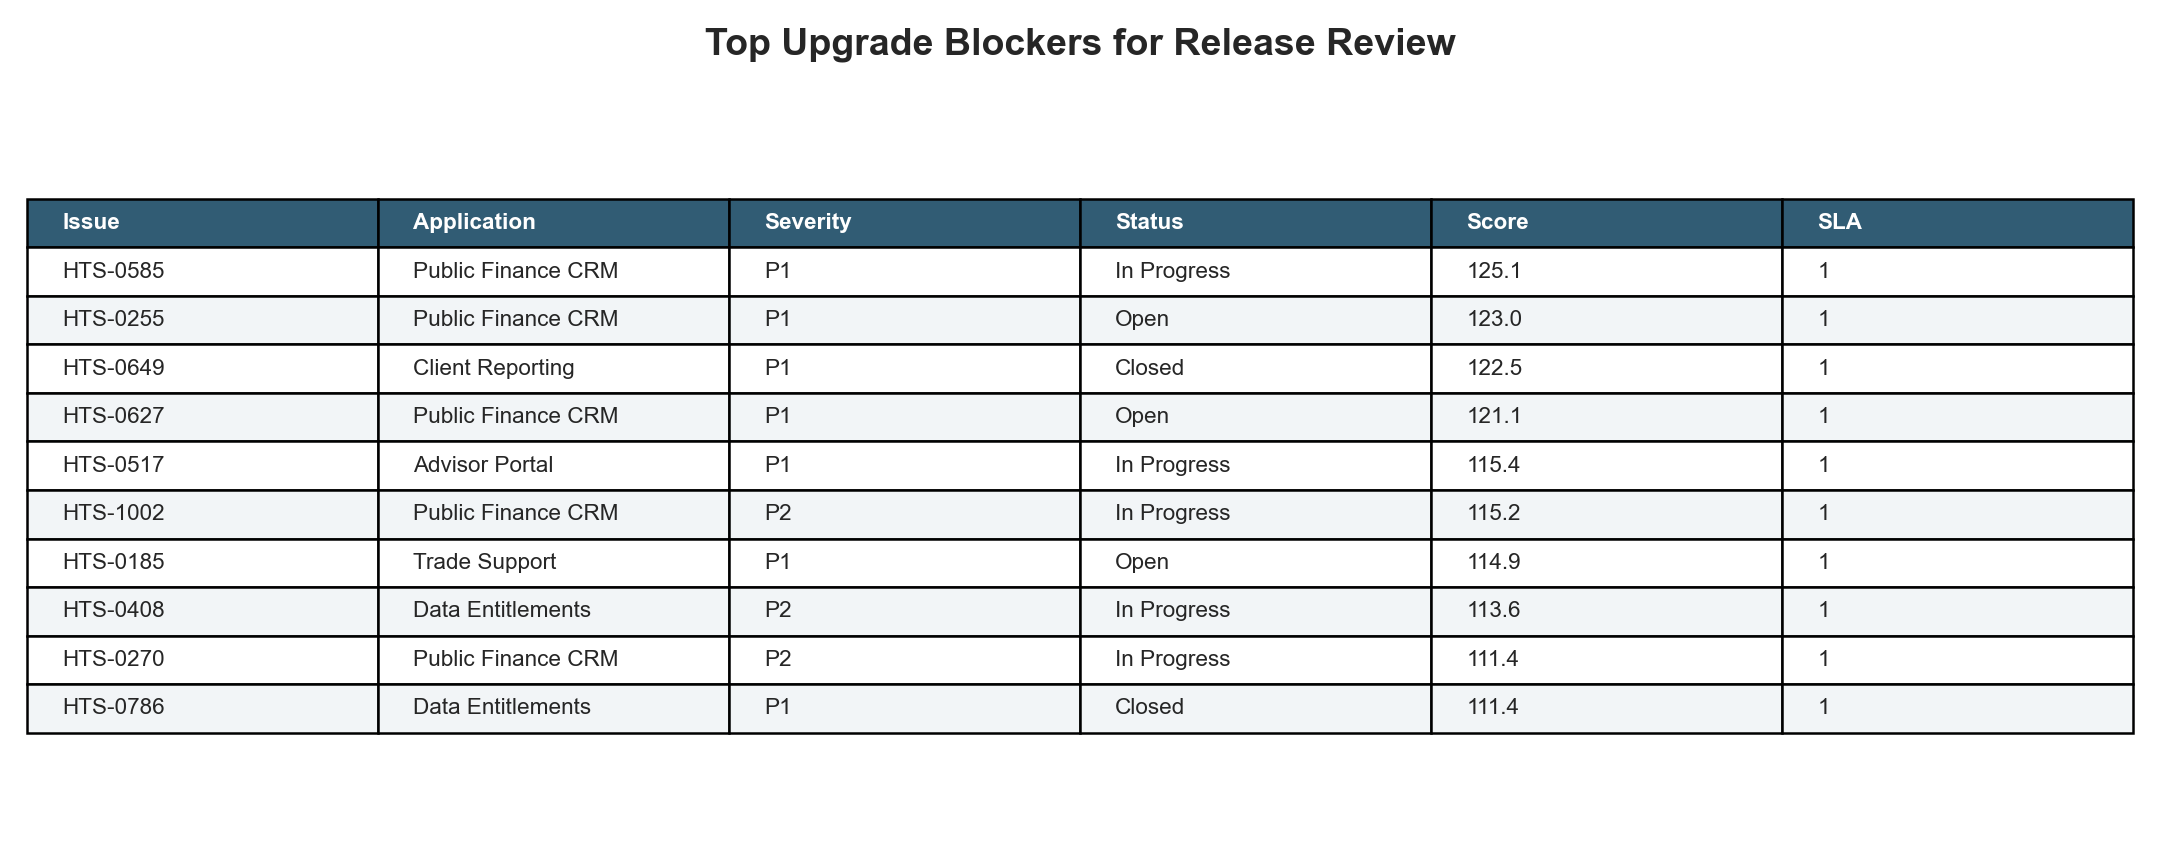
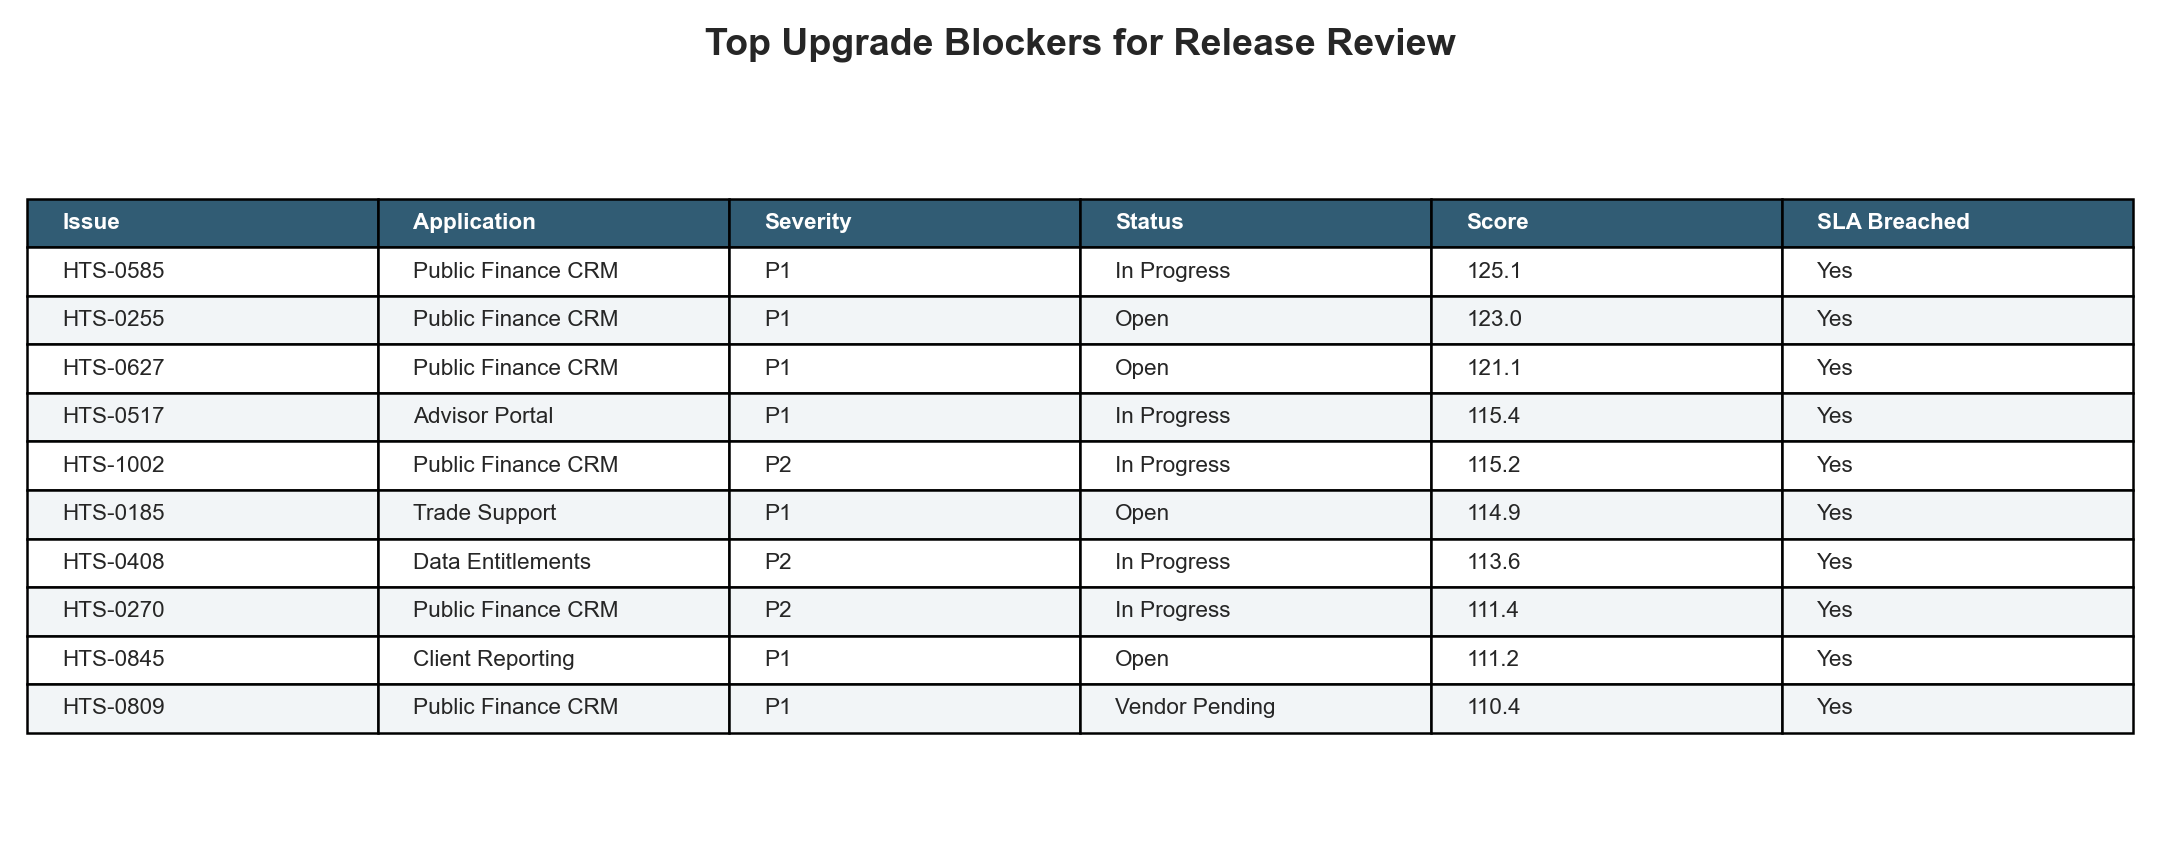
Tighten product support triage workbench

diff --git a/scripts/generate_data.py b/scripts/generate_data.py
@@ -31,12 +31,13 @@ USER_GROUPS = [
     "Sales Support",
 ]
 SEVERITY_WEIGHT = {"P1": 40, "P2": 28, "P3": 14, "P4": 6}
+ACTIVE_STATUSES = {"Open", "In Progress", "Vendor Pending", "Testing"}
 
 
 def write_csv(path: Path, rows: list[dict]) -> None:
     path.parent.mkdir(parents=True, exist_ok=True)
     with path.open("w", newline="") as handle:
-        writer = csv.DictWriter(handle, fieldnames=list(rows[0].keys()))
+        writer = csv.DictWriter(handle, fieldnames=list(rows[0].keys()), lineterminator="\n")
         writer.writeheader()
         writer.writerows(rows)
 
@@ -140,6 +141,7 @@ def generate_vendors() -> list[dict]:
 
 
 def score_issue(row: dict) -> float:
+    """Illustrative review score for prioritizing analyst attention."""
     sla_ratio = float(row["hours_open"]) / float(row["sla_hours"])
     score = SEVERITY_WEIGHT[row["severity"]]
     score += min(35, sla_ratio * 12)
@@ -159,7 +161,15 @@ def write_outputs(issues: list[dict], tests: list[dict]) -> None:
         ranked.append(scored)
     ranked.sort(key=lambda row: row["triage_score"], reverse=True)
     write_csv(OUT / "ranked_issue_queue.csv", ranked)
-    write_csv(OUT / "top_25_upgrade_blockers.csv", ranked[:25])
+
+    active_blockers = []
+    for row in ranked:
+        if row["status"] not in ACTIVE_STATUSES:
+            continue
+        blocker = dict(row)
+        blocker["sla_breach_flag"] = blocker.pop("sla_breached")
+        active_blockers.append(blocker)
+    write_csv(OUT / "top_25_upgrade_blockers.csv", active_blockers[:25])
 
     by_release: dict[str, list[dict]] = {}
     for test in tests:
@@ -171,6 +181,7 @@ def write_outputs(issues: list[dict], tests: list[dict]) -> None:
                 "release_id": release_id,
                 "test_requests": len(release_tests),
                 "avg_pass_rate": round(sum(float(t["pass_rate"]) for t in release_tests) / len(release_tests), 3),
+                "pass_rate_gap": round(1 - (sum(float(t["pass_rate"]) for t in release_tests) / len(release_tests)), 3),
                 "open_defects": sum(int(t["open_defects"]) for t in release_tests),
                 "not_ready_tests": sum(1 for t in release_tests if int(t["ready_for_release"]) == 0),
             }
@@ -218,33 +229,44 @@ def write_evidence_images() -> None:
     fig.savefig(IMAGES / "triage-score-by-application.png", dpi=180)
     plt.close(fig)
 
-    heatmap_data = releases.set_index("release_id")[["avg_pass_rate", "open_defects", "not_ready_tests"]]
+    heatmap_data = releases.set_index("release_id")[["pass_rate_gap", "open_defects", "not_ready_tests"]]
     normalized = heatmap_data.copy()
+    normalized["pass_rate_gap"] = normalized["pass_rate_gap"] / max(0.001, normalized["pass_rate_gap"].max())
     normalized["open_defects"] = normalized["open_defects"] / max(1, normalized["open_defects"].max())
     normalized["not_ready_tests"] = normalized["not_ready_tests"] / max(1, normalized["not_ready_tests"].max())
 
     fig, ax = plt.subplots(figsize=(9, 5))
     image = ax.imshow(normalized, cmap="YlOrRd", aspect="auto")
     ax.set_title("Release Readiness Risk Matrix", fontsize=15, weight="bold")
-    ax.set_xticks(range(len(normalized.columns)), ["Pass rate", "Open defects", "Tests not ready"])
+    ax.set_xticks(range(len(normalized.columns)), ["Pass-rate gap", "Open defects", "Tests not ready"])
     ax.set_yticks(range(len(normalized.index)), normalized.index)
     for row in range(len(heatmap_data.index)):
         for col, column in enumerate(heatmap_data.columns):
             value = heatmap_data.iloc[row, col]
-            label = f"{value:.3f}" if column == "avg_pass_rate" else str(int(value))
+            label = f"{value:.1%}" if column == "pass_rate_gap" else str(int(value))
             ax.text(col, row, label, ha="center", va="center", color="#222", fontsize=9)
+    ax.text(
+        0.5,
+        -0.16,
+        "Darker color means higher release-readiness risk: larger pass-rate gap, more open defects, or more not-ready tests.",
+        transform=ax.transAxes,
+        ha="center",
+        fontsize=8,
+        color="#444",
+    )
     fig.colorbar(image, ax=ax, fraction=0.046, pad=0.04)
     fig.tight_layout()
     fig.savefig(IMAGES / "release-readiness-risk-matrix.png", dpi=180)
     plt.close(fig)
 
-    table_cols = ["issue_id", "application", "severity", "status", "triage_score", "sla_breached"]
-    table_data = top_blockers[table_cols].head(10)
+    table_cols = ["issue_id", "application", "severity", "status", "triage_score", "sla_breach_flag"]
+    table_data = top_blockers[table_cols].head(10).copy()
+    table_data["sla_breach_flag"] = table_data["sla_breach_flag"].map({1: "Yes", 0: "No"})
     fig, ax = plt.subplots(figsize=(12, 4.8))
     ax.axis("off")
     table = ax.table(
         cellText=table_data.values,
-        colLabels=["Issue", "Application", "Severity", "Status", "Score", "SLA"],
+        colLabels=["Issue", "Application", "Severity", "Status", "Score", "SLA Breached"],
         loc="center",
         cellLoc="left",
         colLoc="left",

diff --git a/src/triage_model.py b/src/triage_model.py
@@ -4,7 +4,13 @@ SEVERITY_WEIGHT = {"P1": 40, "P2": 28, "P3": 14, "P4": 6}
 
 
 def triage_score(issue: dict) -> float:
-    """Score one support issue for product analyst review priority."""
+    """Score one support issue for product analyst review priority.
+
+    Weights are illustrative review weights: severity establishes baseline
+    business urgency, SLA pressure captures aging, recurrence and affected-user
+    terms raise systemic impact, customer effort represents experience cost,
+    and vendor-blocked issues receive an escalation premium.
+    """
     sla_ratio = float(issue["hours_open"]) / float(issue["sla_hours"])
     score = SEVERITY_WEIGHT[issue["severity"]]
     score += min(35, sla_ratio * 12)

diff --git a/README.md b/README.md
@@ -22,8 +22,8 @@ Open application issues are rarely comparable at first glance. A P2 defect with 
 ## How The Project Works
 
 1. Generate source-style support operations data with `scripts/generate_data.py`.
-2. Score each issue using severity, SLA breach pressure, recurrence, affected users, customer effort, and vendor blocker status.
-3. Export ranked queues and KPI summaries to `analysis/outputs/`.
+2. Score each issue using illustrative review weights for severity, SLA breach pressure, recurrence, affected users, customer effort, and vendor blocker status.
+3. Export the full ranked queue, an active-only blocker queue, and KPI summaries to `analysis/outputs/`.
 4. Render evidence images into `docs/images/` so the work can be inspected without running the script.
 5. Use `analysis/executive_findings.md` for the stakeholder readout and recommended operating motion.
 
@@ -39,17 +39,21 @@ This chart shows which supported applications concentrate the highest combined s
 
 ![Release readiness risk matrix](docs/images/release-readiness-risk-matrix.png)
 
-This matrix compares pass rate, open defects, and not-ready tests across releases so product support can decide where to escalate before signoff.
+This matrix compares pass-rate gap, open defects, and not-ready tests across releases so product support can decide where to escalate before signoff. Darker color means higher release-readiness risk.
 
 ### Top Upgrade Blockers
 
 ![Top upgrade blockers table](docs/images/top-upgrade-blockers.png)
 
-This ranked table gives a meeting-ready view of the highest-priority issues to review before user group updates and release planning.
+This active-only ranked table gives a meeting-ready view of the highest-priority issues to review before user group updates and release planning.
+
+## Scoring Logic
+
+The triage score is an illustrative review score, not an automated decision rule. It weights P1-P4 severity as the baseline urgency, then adds capped points for SLA age versus target resolution window, recurrence, affected users, customer effort, and vendor-blocked status. The weighting deliberately favors issues that are both operationally stale and externally blocked, because those are the items most likely to need a Product Analyst to coordinate status updates, user-group communication, vendor follow-up, testing, and incremental release planning.
 
 ## What The Analysis Says
 
-- Highest-risk issues tend to combine old SLA age, recurrence, and vendor blockers rather than severity alone.
+- Highest-risk active issues tend to combine old SLA age, recurrence, and vendor blockers rather than severity alone.
 - Release readiness should be reviewed alongside open issue severity, because several high-score blockers connect directly to not-ready tests.
 - The triage score is most useful as a review queue, not an automated decision rule; product owners still need context from user groups and vendors.
 
@@ -90,5 +94,5 @@ The script writes source tables, ranked outputs, KPI summaries, and rendered evi
 ## Caveats And Limitations
 
 - The data is synthetic and designed to represent a realistic support operations workflow, not a real broker-dealer system.
-- SLA thresholds, effort scores, and triage weights are illustrative and should be calibrated against real support history before production use.
+- SLA thresholds, effort scores, and triage weights are illustrative review weights and should be calibrated against real support history before production use.
 - The analysis intentionally stays in a reproducible workbench format rather than a dashboard so the ranking logic remains easy to inspect.

diff --git a/data_dictionary.md b/data_dictionary.md
@@ -62,3 +62,18 @@ One row per vendor dependency.
 - `avg_turnaround_hours`: Vendor turnaround time.
 - `open_items`: Open dependency count.
 - `risk_level`: Dependency risk label.
+
+## `analysis/outputs/top_25_upgrade_blockers.csv`
+
+One row per active issue selected for blocker review.
+
+- `sla_breach_flag`: Boolean field showing whether `hours_open` exceeds the issue's `sla_hours` target.
+
+## `analysis/outputs/release_readiness_summary.csv`
+
+One row per release.
+
+- `avg_pass_rate`: Average test pass rate for the release.
+- `pass_rate_gap`: `1 - avg_pass_rate`; used so release-readiness color means higher risk when the value is higher.
+- `open_defects`: Total open defects across release test requests.
+- `not_ready_tests`: Count of test requests not ready for release.

diff --git a/analysis/executive_findings.md b/analysis/executive_findings.md
@@ -4,14 +4,15 @@ The generated support queue creates 1,100 synthetic application issues across si
 
 Key readouts:
 
-- `analysis/outputs/ranked_issue_queue.csv` identifies the top 25 upgrade blockers for Product Analyst review.
-- `analysis/outputs/release_readiness_summary.csv` flags releases with lower pass rates and remaining open defects.
+- `analysis/outputs/ranked_issue_queue.csv` preserves the full scored queue for auditability.
+- `analysis/outputs/top_25_upgrade_blockers.csv` filters to active statuses before identifying the top 25 upgrade blockers for Product Analyst review.
+- `analysis/outputs/release_readiness_summary.csv` flags releases with larger pass-rate gaps and remaining open defects.
 - `analysis/outputs/kpi_snapshot.csv` summarizes SLA breach rate, average hours open, vendor-blocked share, and customer effort.
 - `docs/images/` contains rendered evidence images for application triage pressure, release readiness risk, and the top upgrade blocker queue.
 
 Recommended operating motion:
 
-1. Review the top 25 issues before user-group meetings.
+1. Review the active top 25 issues before user-group meetings.
 2. Convert recurring high-score issues into requirements with acceptance criteria.
 3. Escalate high-risk vendor dependencies before release signoff.
 4. Use KPI snapshot fields as Power BI tiles for Service Center status updates.

diff --git a/analysis/analysis_plan.md b/analysis/analysis_plan.md
@@ -14,7 +14,7 @@ Rank financial product support issues by business urgency and release risk so a 
 
 ## Scoring Logic
 
-The triage score combines:
+The triage score uses illustrative review weights, not an automated business rule. It combines:
 
 - SLA breach risk from issue age versus target resolution window
 - Severity weighting
@@ -23,6 +23,8 @@ The triage score combines:
 - Customer effort score
 - Vendor blocker flag
 - Release readiness exposure
+
+The score intentionally gives the largest fixed baseline to severity, caps SLA aging so stale lower-severity tickets do not overwhelm true P1 incidents, and then adds recurrence, affected-user, customer-effort, and vendor-blocker pressure to surface issues that need cross-team coordination.
 
 ## Review Questions
 